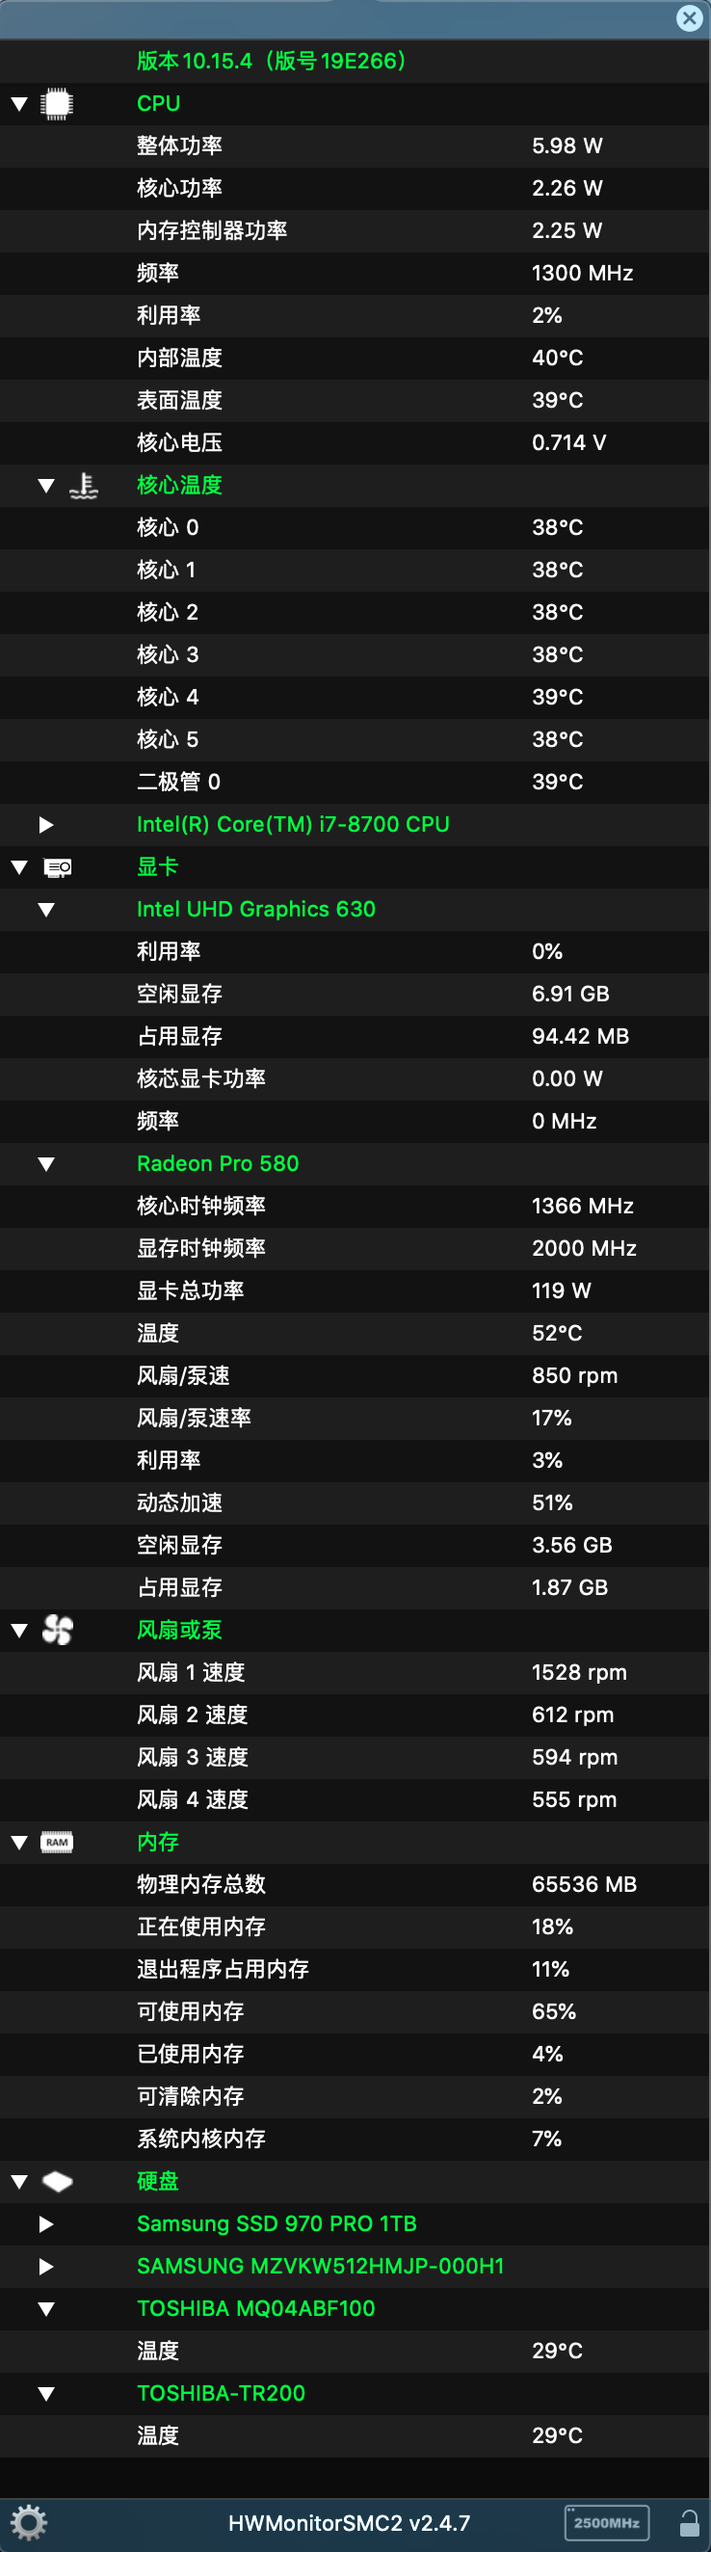
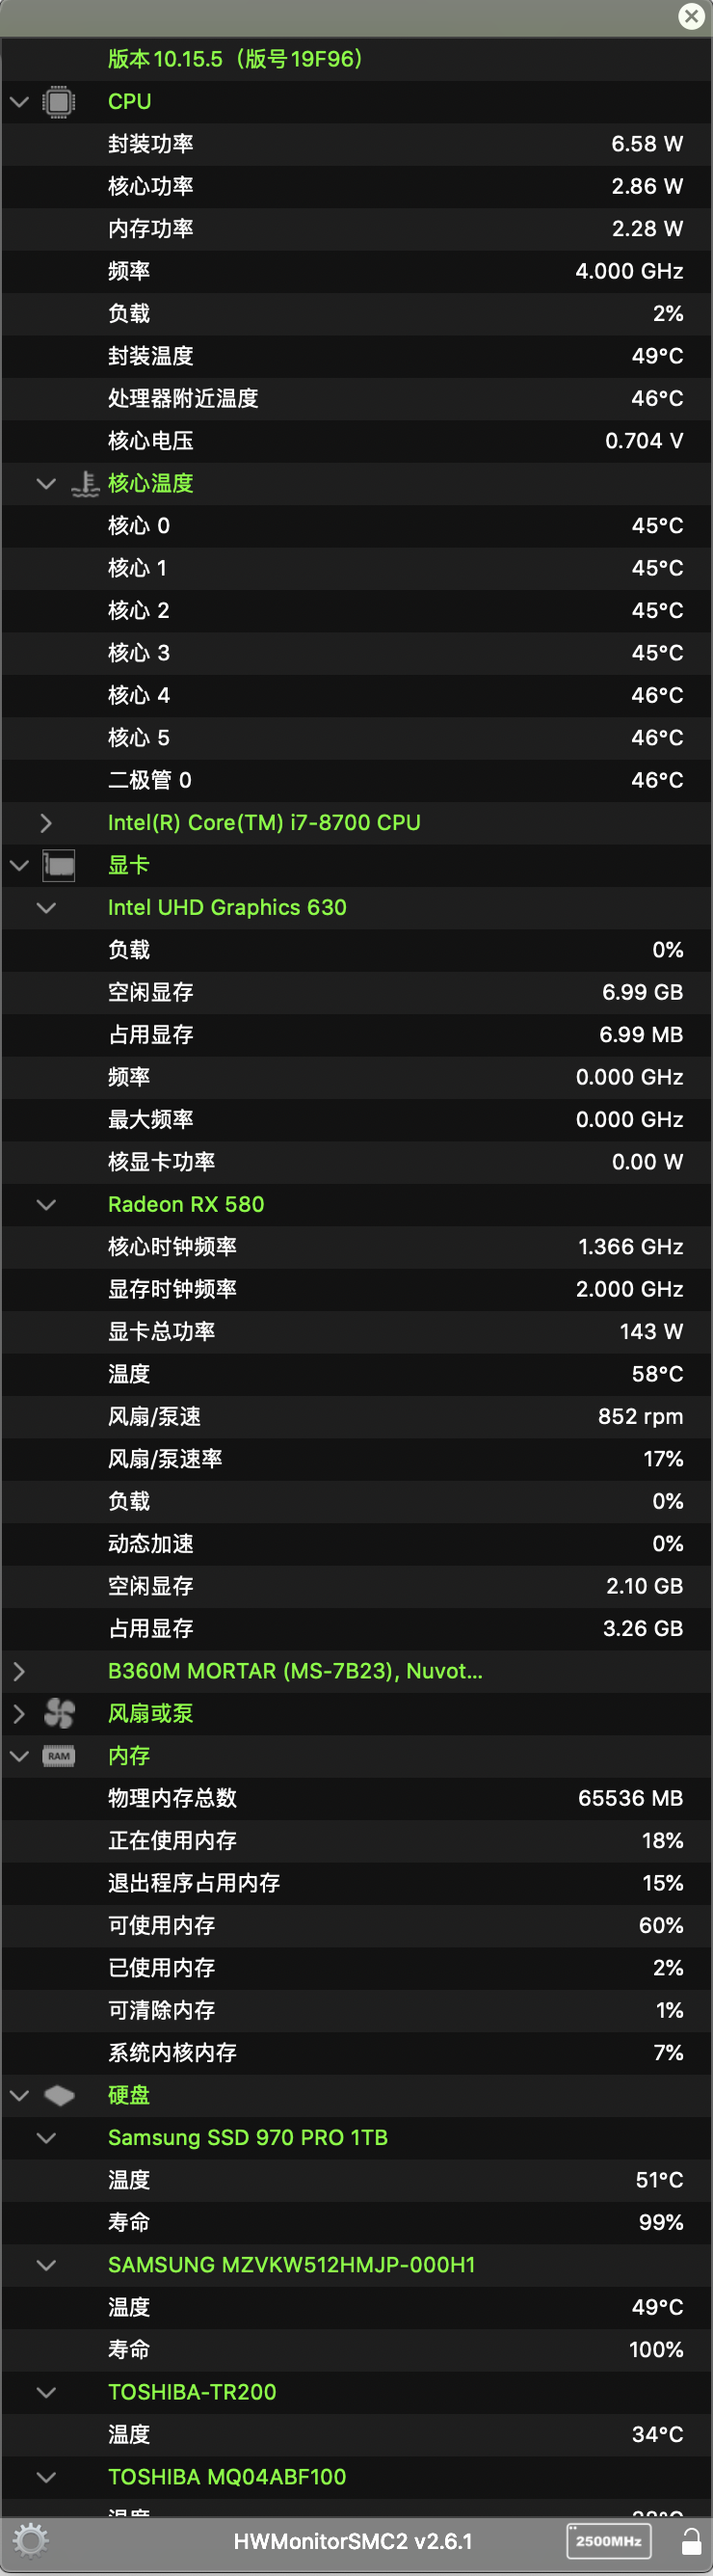
更新 README

diff --git a/README.md b/README.md
@@ -2,7 +2,7 @@
 
 ## 我的配置
 
-|         硬件       |                   型号                  | 
+|               硬件 | 型号                                    |
 |-------------------:|:----------------------------------------|
 |               主板 | 微星 B360M 迫击炮                       |
 |                CPU | Intel Core i7-8700                      |
@@ -23,7 +23,7 @@
 
 ## 兼容本 EFI 的设备
 
-|         硬件       |                              型号                           | 
+|               硬件 | 型号                                                        |
 |-------------------:|:------------------------------------------------------------|
 |               主板 | 微星 B360M 迫击炮（钛金版）                                 |
 |                CPU | Intel 8代、9代酷睿处理器，有无核显都可以                    |
@@ -64,13 +64,21 @@
 
 ## 更新日志
 
+### 2020年5月28日
+
+* 更新 Clover 版本到 5118。
+* 更新 Lilu 到 1.4.4。
+* 更新 WhateverGreen 到 1.3.9（[ayun2001 魔改版](http://bbs.pcbeta.com/viewthread-1847847-1-1.html)）。
+* 添加了 NVMeFix 1.0.2。
+* 可以正常升级到 macOS Catalina 10.15.5。
+
 ### 2020年3月25日
 
 * 更新 Clover 版本到 5107。
 * 更新 Lilu 到 1.4.3。
 * 更新 AppleALC 到 1.4.8。
 * 更新 VirtualSMC 到 1.1.1。
-* 更新 WhateverGreen 到 1.3.7（[ayun2001 魔改版](http://bbs.pcbeta.com/viewthread-1847847-1-1.html)）
+* 更新 WhateverGreen 到 1.3.7（[ayun2001 魔改版](http://bbs.pcbeta.com/viewthread-1847847-1-1.html)）。
 * 可以正常升级到 macOS Catalina 10.15.4。
 * 自己又增加了 2 条 16G 内存，现在有 64G 内存了。
 
